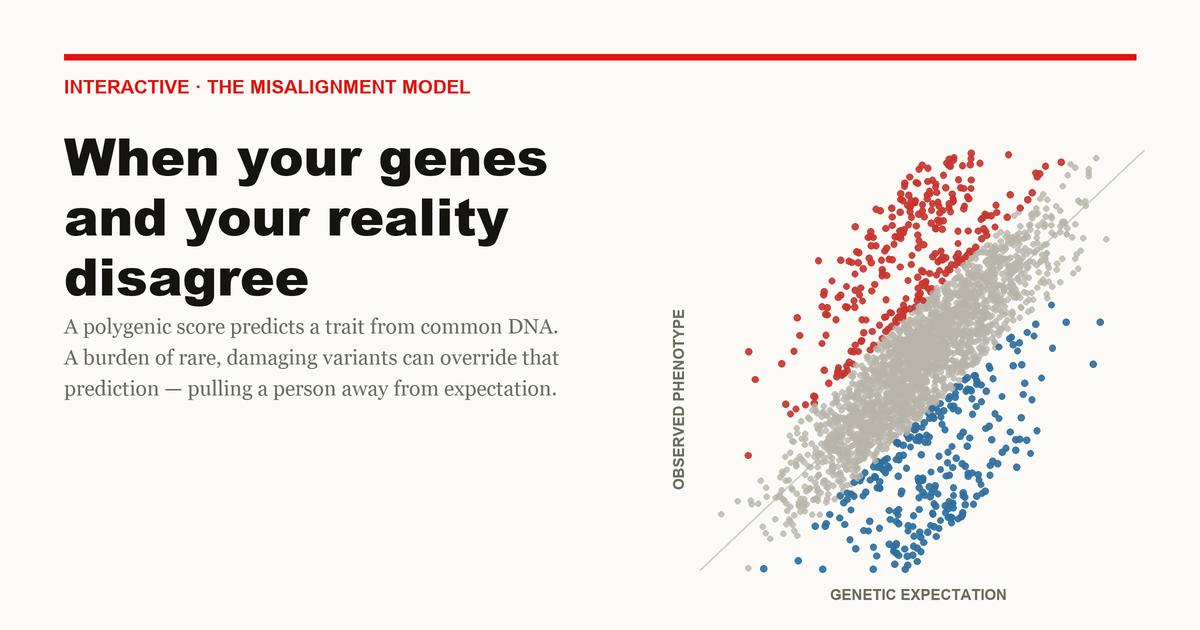
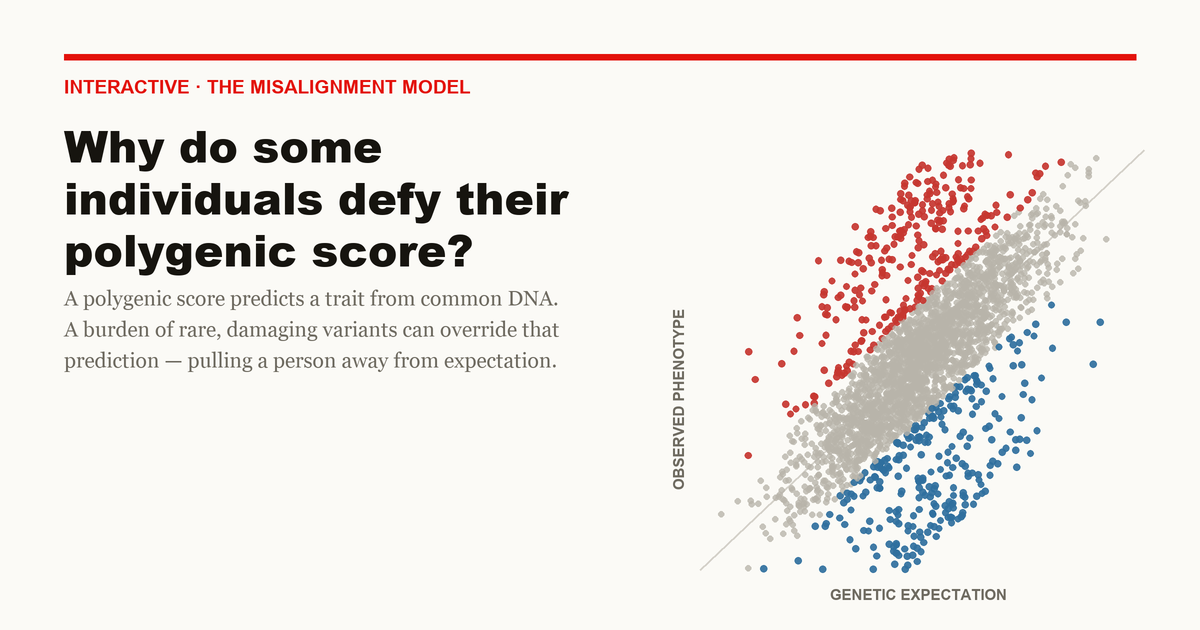
Retitle to "Why do some individuals defy their polygenic score?"
- Update <title>, <h1>, og:title, twitter:title to the new question
- Regenerate og-preview.png with the new headline

Changed region(s): [[0.0308, 0.2111, 0.4933, 0.6333]]

diff --git a/index.html b/index.html
@@ -3,12 +3,12 @@
 <head>
 <meta charset="utf-8" />
 <meta name="viewport" content="width=device-width, initial-scale=1" />
-<title>The misalignment model — interactive</title>
+<title>Why do some individuals defy their polygenic score?</title>
 <meta name="description" content="A polygenic score predicts a trait from common DNA. A burden of rare, damaging variants can override that prediction. Scroll to see how." />
 
 <!-- Social preview (Open Graph / Twitter card) -->
 <meta property="og:type" content="website" />
-<meta property="og:title" content="When your genes and your reality disagree" />
+<meta property="og:title" content="Why do some individuals defy their polygenic score?" />
 <meta property="og:description" content="A polygenic score predicts a trait from common DNA. A burden of rare, damaging variants can override that prediction. An interactive on the misalignment model." />
 <meta property="og:url" content="https://nikbaya.github.io/phenotype_deviation_interactive/" />
 <meta property="og:image" content="https://nikbaya.github.io/phenotype_deviation_interactive/og-preview.png" />
@@ -16,7 +16,7 @@
 <meta property="og:image:height" content="630" />
 <meta property="og:image:alt" content="Scatter of observed phenotype against genetic expectation: an aligned grey diagonal band with red and blue misaligned tails." />
 <meta name="twitter:card" content="summary_large_image" />
-<meta name="twitter:title" content="When your genes and your reality disagree" />
+<meta name="twitter:title" content="Why do some individuals defy their polygenic score?" />
 <meta name="twitter:description" content="A polygenic score predicts a trait from common DNA. A burden of rare, damaging variants can override that prediction." />
 <meta name="twitter:image" content="https://nikbaya.github.io/phenotype_deviation_interactive/og-preview.png" />
 <link rel="preconnect" href="https://fonts.googleapis.com">
@@ -164,7 +164,7 @@
 <div class="intro">
   <div class="masthead">
     <div class="kicker">Interactive · The misalignment model</div>
-    <h1>When your genes and your reality disagree</h1>
+    <h1>Why do some individuals defy their polygenic score?</h1>
     <p class="standfirst">A polygenic score sums thousands of common variants to <em>predict</em> a trait. A burden of <em>rare</em>, damaging variants in a single gene — counted together — can override that prediction, pulling a person away from what their common DNA forecast. Scroll to see how.</p>
     <div class="scrollcue">Scroll
       <svg class="scrollarrow" width="14" height="40" viewBox="0 0 14 40" fill="none" aria-hidden="true">

diff --git a/tools/make_og_image.py b/tools/make_og_image.py
@@ -44,12 +44,12 @@ d.text((PADX*SS, (top_rule_y+22)*SS), "INTERACTIVE · THE MISALIGNMENT MODEL",
        font=fk, fill=RULE)
 
 # headline (wrapped), left column ~ 620px wide
-fh = font(F_BLACK, 52)
-headline = ["When your genes", "and your reality", "disagree"]
-y = (top_rule_y + 64) * SS
+fh = font(F_BLACK, 44)
+headline = ["Why do some", "individuals defy their", "polygenic score?"]
+y = (top_rule_y + 60) * SS
 for line in headline:
     d.text((PADX*SS, y), line, font=fh, fill=INK)
-    y += int(60 * SS)
+    y += int(52 * SS)
 
 # standfirst
 fs = font(F_SERIF, 21)